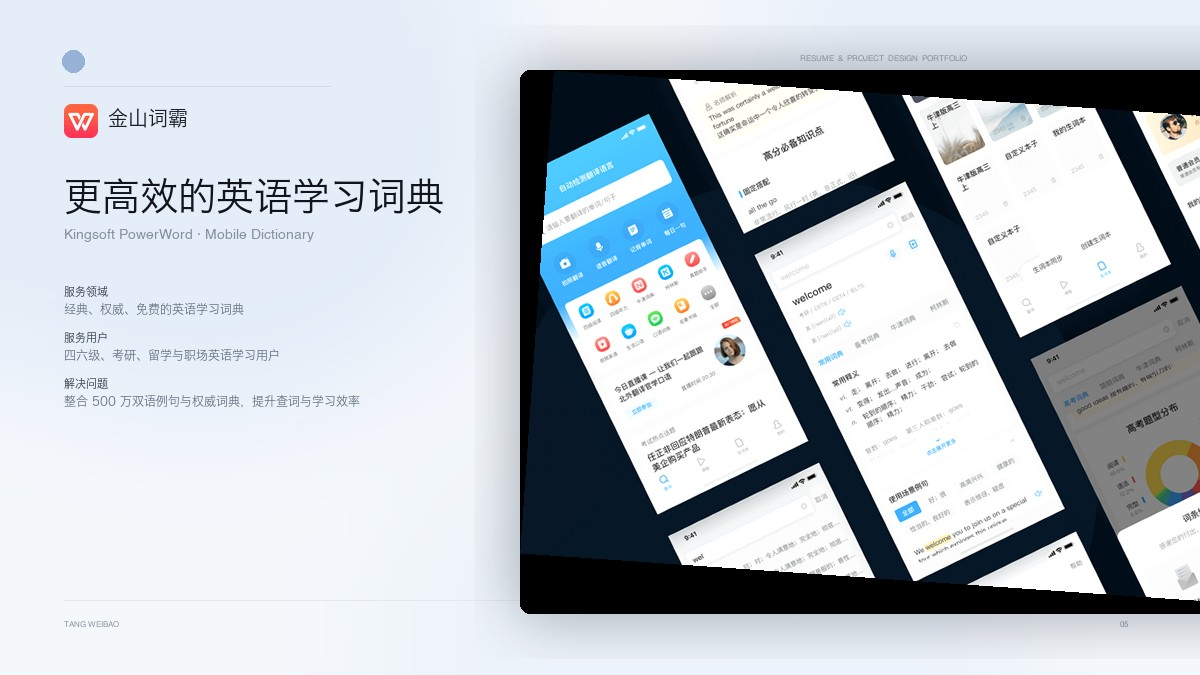
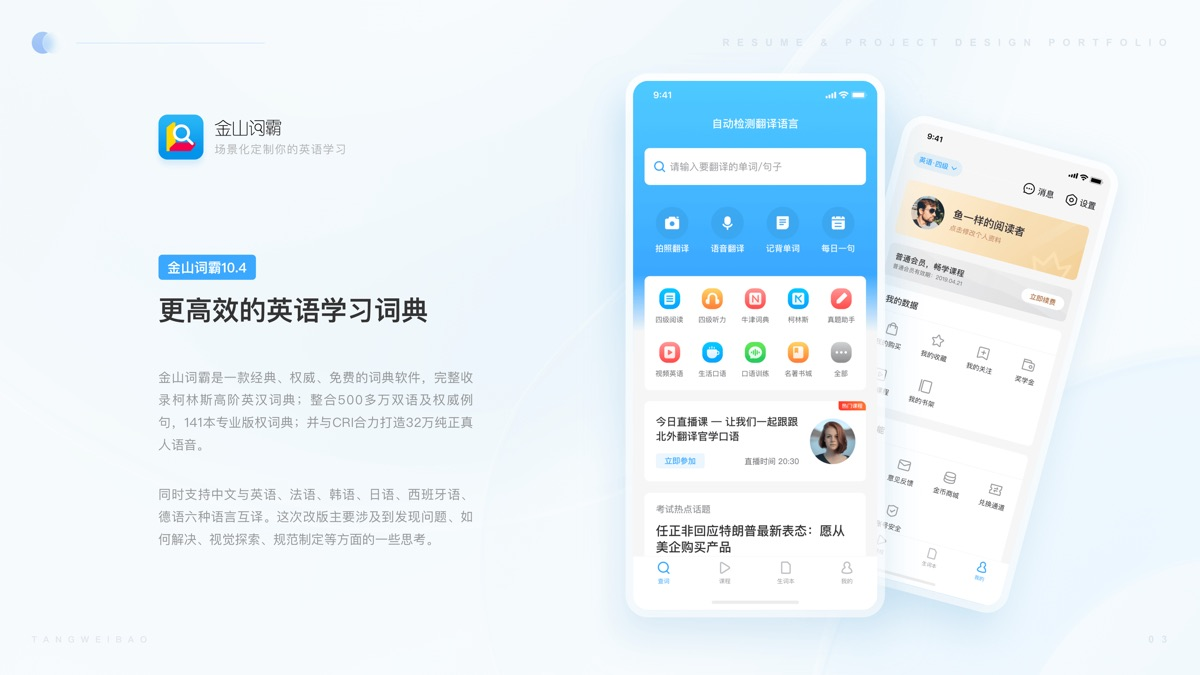
封面改用各项目第一页，撤回模板封面
- 按反馈：不单独设计/生成封面，统一取每个项目第一页 slide 作为封面；
  JD 与金山词霸沿用各自历史封面（本身即第一页）
- 字节跳动四个项目 cover 改为 assets/works/bytedance/*/01.jpg，
  删除上一版生成的 4 张 douyin-*.jpg，恢复 mobile.jpg 原封面
- 卡片继续 object-fit: cover 居中裁切，呈现与京东零售卡片一致
- AGENTS.md §2 / §3.2 / §6 更新

验证：首页与项目导航 1440×900 截图检查裁切与并列效果；查看器
进入/退出使用第一页封面正常，无 JS 报错。

diff --git a/script.js b/script.js
@@ -98,7 +98,7 @@ const experiences = {
         name: "抖音创作服务平台",
         type: "PLATFORM · WEB",
         description: "创作者与机构的一站式服务平台",
-        cover: "assets/thumbs/douyin-platform.jpg",
+        cover: "assets/works/bytedance/platform/01.jpg",
         slides: bytedancePlatformSlides
       },
       {
@@ -106,7 +106,7 @@ const experiences = {
         name: "抖音AI封面",
         type: "AI · COVER DESIGN",
         description: "AI 封面生成与创作体验设计",
-        cover: "assets/thumbs/douyin-ai-cover.jpg",
+        cover: "assets/works/bytedance/ai-cover/01.jpg",
         slides: bytedanceAiCoverSlides
       },
       {
@@ -114,7 +114,7 @@ const experiences = {
         name: "抖音其他项目",
         type: "PRODUCT MATRIX",
         description: "多产品线的界面与体验设计",
-        cover: "assets/thumbs/douyin-other.jpg",
+        cover: "assets/works/bytedance/other/01.jpg",
         slides: bytedanceOtherSlides
       },
       {
@@ -122,7 +122,7 @@ const experiences = {
         name: "个人AI转型实践",
         type: "AI · PERSONAL PRACTICE",
         description: "AI 工具与个人工作流实践",
-        cover: "assets/thumbs/douyin-ai-practice.jpg",
+        cover: "assets/works/bytedance/ai-practice/01.jpg",
         slides: bytedanceAiPracticeSlides
       }
     ]

diff --git a/AGENTS.md b/AGENTS.md
@@ -20,7 +20,7 @@
 | `script.js` | 数据、hash 路由、横向工作流（阻尼/拖拽）、查看器、缩略图、联系名片、焦点管理 |
 | `assets/fonts/` | Caveat / Kalam woff2（手写体强调） |
 | `assets/marks/` | 三家公司图标 `bytedance / jd / kingsoft.webp`（180–183px，RGBA 透明圆角；`douyin.webp` 保留但已不再引用） |
-| `assets/thumbs/` | 卡片封面：统一 1200×675 的「京东零售模板」（浅色渐变底 + 左侧品牌/标题/三段说明 + 右侧倾斜产品截图）；`douyin-* / jd / mobile` |
+| `assets/thumbs/` | 卡片封面：JD（`jd.jpg`）与金山词霸（`mobile.jpg`）沿用原封面；字节跳动四个项目直接用各自第一页 `assets/works/bytedance/*/01.jpg`，不单独生成封面 |
 | `assets/slide-thumbs/` | 查看器缩略图（16:9，320×180；`byte-*` 为字节跳动四个项目、`jd/kingsoft` 为历史项目） |
 | `assets/works/bytedance/` | 2026 作品材料导入的字节跳动四个项目：`platform`（35 页）、`ai-cover`（9 页）、`other`（4 页）、`ai-practice`（5 页图片 + 1 页复合视频），统一 2560×1440 JPEG |
 | `assets/video/` | 复合页演示视频（1080p H.264，≤12 MB/条）与 `-poster.jpg` 静帧 |
@@ -43,20 +43,10 @@
 
 ### 3.2 卡片封面（首页小卡 + 项目页大卡共用一张）
 
-**统一模板（以 `assets/thumbs/jd.jpg` 为基准，1200×675）**
-
-- 背景：浅蓝白渐变 + 柔和光斑，整体接近 `#f7f9fc → #eaf1f8`。
-- 左侧安全区（宽约 420px）：顶部品牌图标（34px）+ 公司名；中文大标题 38px；英文副标题 14px 灰；下方三段「服务领域 / 服务用户 / 解决问题」（标签 11px、正文 12px，行距 17px）。
-- 右侧（约 58%）：一张 16:9 产品截图，裁掉页头标题后旋转 -4°、圆角 10px、带柔和投影，可越出右边缘；卡片/导航页裁切后仍能保留右侧截图主体。
-- 顶部右侧 `RESUME & PROJECT DESIGN PORTFOLIO` 浅灰字距水印；底部细分割线、左下 `TANG WEIBAO`、右下页码（`01`…`05`）。
-- 所有项目的封面都按此模板生成；JD 封面为原始基准（不改动）。
-
-
-- 实测卡片比例差异很大：首页卡 0.30–1.20、项目页卡 0.25–1.43（与视口有关），统一 `object-fit: cover` 裁切。
-- **主文件 1600×2000 px（4:5）**；需要 4K 清晰度时 2400×3000；WebP q80，约 150–250 KB。
-- 安全区：核心画面放中间 70% 宽、纵向 10%–60% 之间；底部 40% 是渐变+标题区；顶部 10% 有页码/类型角标；首页小卡左右各裁 ~15%。
-- 模板：[`../design-guides/card-cover-guide-1600x2000.png`](../design-guides/card-cover-guide-1600x2000.png)（工作区辅助文件，不随仓库提交）
-- **卡片文字层**：顶部是项目名（Impact）+ 页数/类型（`32 PAGES · EXPLORE` 或「项目资料整理中」），底部是序号 `01` + 类型（`PLATFORM · WEB`）；遮罩为「顶部强渐变（保证项目名可读）+ 底部弱渐变（保证序号/类型可读）」两层，hover 时整层透明度 .76 → .38；`PENDING` 角标位于项目名块下方 52px，避免压住页数行。
+- **规则：封面 = 该项目第一页 slide**，直接使用 slide 源图，不单独设计/生成/改动封面；JD 与金山词霸沿用各自历史封面（本身即各自第一页）。
+- 卡片呈现与京东零售封面一致：`object-fit: cover` 居中裁切；首页卡与项目页卡比例差异较大（0.25–1.43），保证第一页的中心内容落在裁切安全区。
+- 需要换封面时只改对应作品第 1 页，不再单独维护封面图。
+- **卡片文字层**：顶部是项目名（Impact）+ 页数/类型（`32 PAGES · EXPLORE` 或「项目资料整理中」），底部是序号 `01` + 类型（`PLATFORM · WEB`）；遮罩为「顶部强渐变 + 底部弱渐变」两层，hover 时整层透明度 .76 → .38；`PENDING` 角标位于项目名块下方 52px。
 
 ### 3.3 公司图标
 
@@ -419,3 +409,10 @@
 - **裁切适配**：左侧文案宽约 420px、右侧截图从 x≈520px 开始，卡片/项目导航按 16:9 封面居中裁切后仍能看到右侧截图主体，不会只剩空白。
 - **文案**：每个项目按模板补齐中文标题、英文副标题与三段说明（服务领域 / 服务用户 / 解决问题），由项目内容提炼。
 - **验证**：6 张封面拼图对比检查布局一致；首页 1440×900 与项目导航页截图确认 4 个新封面裁切后可读、与 JD/金山并列不突兀；查看器进入/退出使用新封面无异常，无 JS 报错。
+
+### 2026-11-12 · 封面改为各项目第一页（撤回模板封面）
+
+- **规则修正**：不单独设计/改动封面，统一取每个项目**第一页 slide** 作为卡片封面；JD 与金山词霸沿用各自历史封面（本身即第一页）。
+- **执行**：字节跳动四个项目 `cover` 改为 `assets/works/bytedance/{platform,ai-cover,other,ai-practice}/01.jpg`；删除上一版生成的 4 张 `assets/thumbs/douyin-*.jpg`；金山词霸 `mobile.jpg` 恢复为原封面。
+- **呈现**：卡片继续用 `object-fit: cover` 居中裁切，与京东零售卡片一致；查看器进入/退出的克隆层自动使用第一页封面，无需其他改动。
+- **验证**：首页 1440×900、项目导航页截图检查 4 个新封面裁切正常、与 JD 并列一致；查看器进入/退出正常，无 JS 报错。
